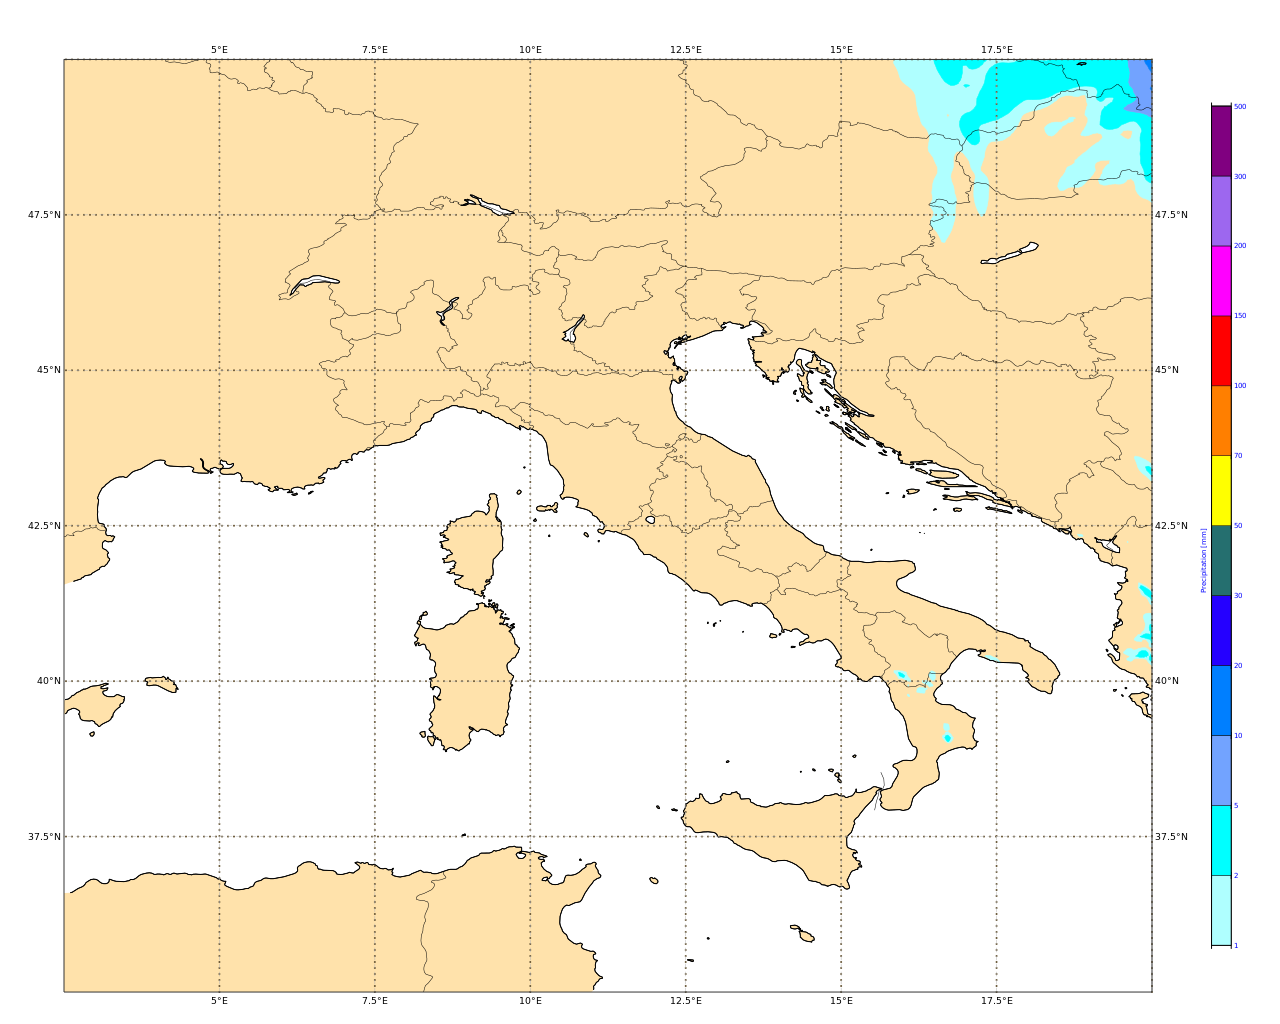
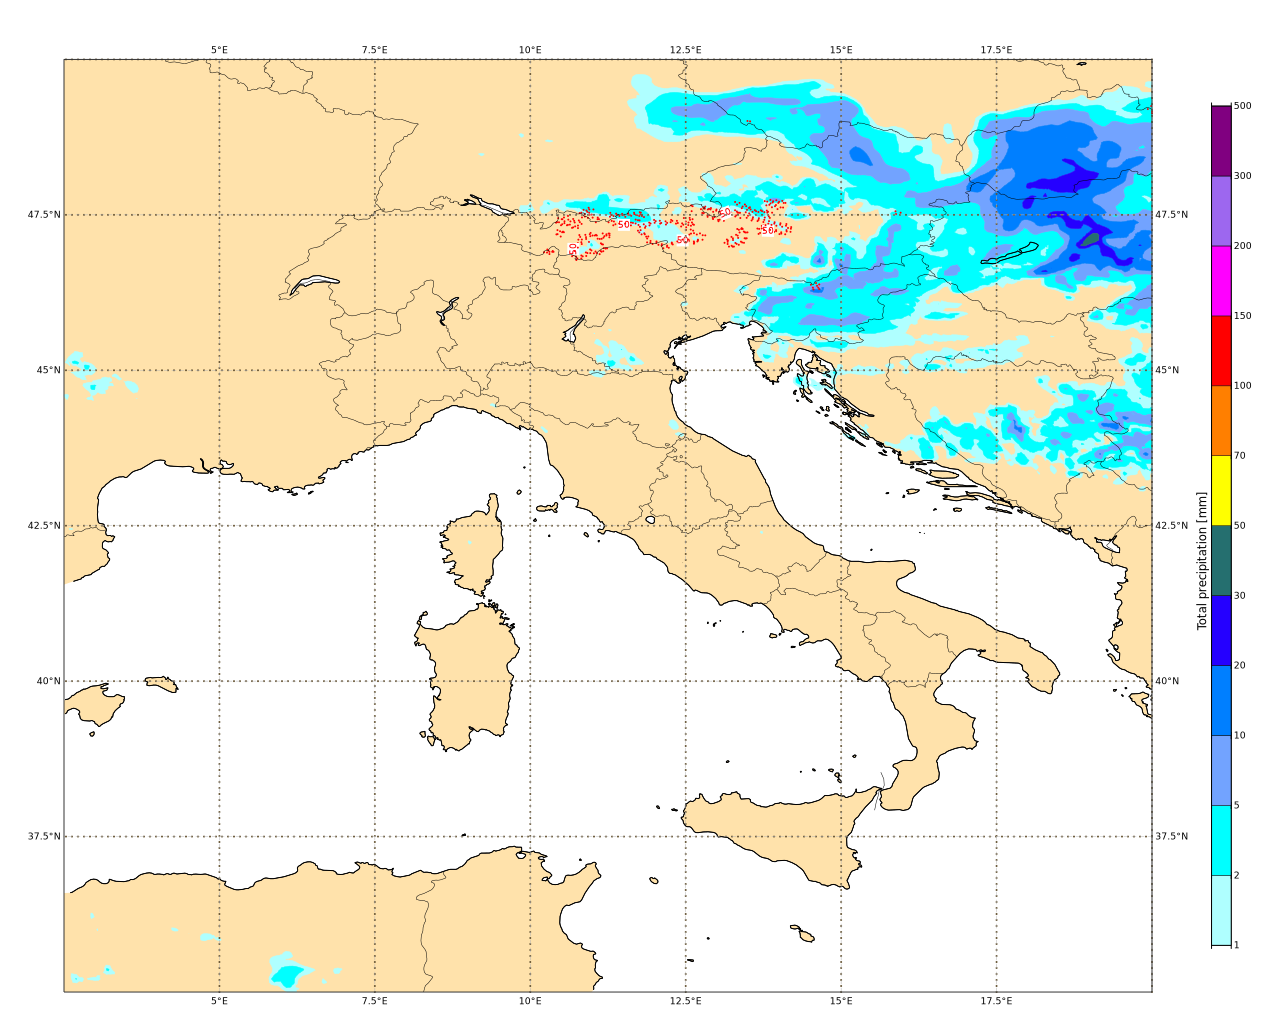
added sample for snow fraction (fix #38), refined products documentation

diff --git a/doc/prodotti/README.md b/doc/prodotti/README.md
@@ -37,20 +37,9 @@ gdal_translate -of Gtiff -a_srs 'EPSG:3857' -a_ullr 389618.2177764575 6446275.84
 | `ztw850`| Geopotenziale, temperatura e vento a 850 hPa | [ztw850.png](ztw850.png)               | [ztw850.md](../recipes/standalone/ztw850.md) |
 | `ztw925`| Geopotenziale, temperatura e vento a 925 hPa | [ztw925.png](ztw925.png)               | [ztw925.md](../recipes/standalone/ztw925.md) |
 | `z500t850`| Geopotenziale a 500 hPa, temperatura a 850 hPa | [z500t850.png](z500t850.png)       | [z500t850.md](../recipes/standalone/z500t850.md) |
-| `tp1h`  | Precipitazione totale cumulata su 1h      |           |  [tp1h.md](../recipes/tp1h.md) |
-| `tp3h`  | Precipitazione totale cumulata su 3h      |           |  [tp3h.md](../recipes/tp3h.md) |
-| `tp6h`  | Precipitazione totale cumulata su 6h      |           |  [tp6h.md](../recipes/tp6h.md) |
-| `tp12h` | Precipitazione totale cumulata su 12h     |           |  [tp12h.md](../recipes/tp12h.md) |
-| `tp24h` | Precipitazione totale cumulata su 24h     | [tp24h.png](tp24h.png "Precipitazione totale su 24h")  |  [tp24h.md](../recipes/tp24h.md) |
-| `cp3h`  | Precipitazione convettiva cumulata su 3h  |           |  [cp3h.md](../recipes/cp3h.md) |
-| `cp6h`  | Precipitazione convettiva cumulata su 6h  |           |  [cp6h.md](../recipes/cp6h.md) |
-| `cp12h` | Precipitazione convettiva cumulata su 12h |           |  [cp12h.md](../recipes/cp12h.md) |
-| `cp24h` | Precipitazione convettiva cumulata su 24h | [cp24h.png](cp24h.png "Precipitazione convettiva su 24h")  |  [cp24h.md](../recipes/cp24h.md) |
-| `sf1h`  | Precipitazione nevosa totale cumulata su 1h      |           |  [sf1h.md](../recipes/sf1h.md) |
-| `sf3h`  | Precipitazione nevosa totale cumulata su 3h      |           |  [sf3h.md](../recipes/sf3h.md) |
-| `sf6h`  | Precipitazione nevosa totale cumulata su 6h      |           |  [sf6h.md](../recipes/sf6h.md) |
-| `sf12h` | Precipitazione nevosa totale cumulata su 12h     |           |  [sf12h.md](../recipes/sf12h.md) |
-| `sf24h` | Precipitazione nevosa totale cumulata su 24h     | [sf24h.png](sf24h.png "Precipitazione nevosa totale su 24h")  |  [sf24h.md](../recipes/sf24h.md) |
+| `tp1h` `tp3h` `tp6h` `tp12h` `tp24h` | Precipitazione totale cumulata su 1/3/6/12/24h con frazione nevosa  | [tp24h.png](tp24h.png) | [tp1h.md](../recipes/standalone/tp1h.md) [tp3h.md](../recipes/standalone/tp3h.md) [tp6h.md](../recipes/standalone/tp6h.md) [tp12h.md](../recipes/standalone/tp12h.md) [tp24h.md](../recipes/standalone/tp24h.md) |
+| `cp3h` `cp6h` `cp12h` `cp24h` | Precipitazione convettiva cumulata su 3/6/12/24h | [cp24h.png](cp24h.png)  |  [cp3h.md](../recipes/cp3h.md) [cp6h.md](../recipes/cp6h.md) [cp12h.md](../recipes/cp12h.md) [cp24h.md](../recipes/cp24h.md) |
+| `sf1h` `sf3h` `sf6h` `sf12h` `sf24h` | Precipitazione nevosa totale cumulata su 1/3/6/12/24h     | [sf24h.png](sf24h.png)  |  [sf1h.md](../recipes/sf1h.md) [sf3h.md](../recipes/sf3h.md) [sf6h.md](../recipes/sf6h.md) [sf12h.md](../recipes/sf12h.md) [sf24h.md](../recipes/sf24h.md) |
 | `litota3` | Densità media fulminazioni nelle ultime 3h | [litota3.png](litota3.png "Densità fulminazioni 3h") | [litota3.md](../recipes/litota3.md) |
 | `viwvn`  | Vertical integral of northward water vapour flux | [viwvn.png](viwvn.png) | [viwvn.md](../recipes/viwvn.md) |
 | `viwvn`  | Vertical integral of eastward water vapour flux  | [viwve.png](viwve.png) | [viwve.md](../recipes/viwve.md) |
@@ -71,50 +60,11 @@ gdal_translate -of Gtiff -a_srs 'EPSG:3857' -a_ullr 389618.2177764575 6446275.84
 
 # Censimento prodotti attualmente pubblicati su infomet
 
-Nota: L'elenco che segue riguarda una lista di prodotti di riferimento, non ancora completamente implementati in arkimaps.
+Nota: L'elenco che segue riguarda una lista di prodotti di riferimento sulla piattaforma "infomet" di ARPAE-SIMC
 
 *modelli censiti: cosmo 5M operativo, cosmo 5I backup, cosmo 5M AM, cleps det, cosmo 2I, cosmo 2I ruc, cosmo1ch, ifs_ita010*
 
-Immagini di riferimento dei prodotti nella cartella "prodotti" che contiene anche questo README (output relativo al primo dei modelli citati)
-
-Nota: la legenda dinamica è una feature richiesta per non mostrare un range troppo esteso (stagionalità della temperatura, etc). Un possibile compromesso potrebbe essere calcolare un range min e max sull'intera corsa.
-
-## Lista prodotti da fare
-
-| cod.int. | Prodotto       | Variabili | Modello |
-| ----- | -------------- | --------- | ------- |
-| rain | Precipitazione totale (passi 1,3,6,12,24h) (#38)  | Preci tot cum(al suolo), Preci nev cum(al suolo) | cosmo 5M, cosmo 5I backup, cosmo 5M am, cleps det (no 1h), cosmo 2I, cosmo 2I RUC (no 24h), cosmo1 CH (solo 3h), ifs (ita) (no 1h), ifs (atl) (no 1, 3h) |
-
-## Opzionali, complessi, a bassa priorità
-
- - I modelli probabilistici necessiterebbero di mappe multi panel
- - I modelli triorari (cosmo 2I RUC, cosmo 1 CH) avrebbero pannelli di confronto di preci trioraria fra corse 
-
-
-I prodotti che seguono hanno preprocessing particolarmente complesso dedicato:
-
-
-| Prodotto       | Variabili | Modello |
-| -------------- | --------- | ------- |
-| Variazione Z500 12 ore | Variazione Geopotenziale 500hPa (dam/12 ore)   | cosmo 5M |
-| Delta T500 12 ore      | Variazione temperatura 500hPa (°K/12 ore)      | cosmo 5M |
-| LLJ+Jet                | Jet Streak 200 hPa, Low level Jet 925hPa       | cosmo 5M |
-| Shear bassa troposfera | Shear del vento nei primi 3000 metri (m/s)     | cosmo 5M |
-| Shear media troposfera | Shear del vento fra 500 e 925 hPa (m/s)        | cosmo 5M |
-| MCS index              | Mesoscale Convective System Index (n)          | cosmo 5M |
-| Velocità verticale 700 hPa | Velocità verticale (omega) a 700hPa (Pa/s) | cosmo 5M |
-| Lifted index           | Lifted index (n)                               | cosmo 5M |
-| Avvezione termica 700 hPa  | Avvezione termica (°K/s) e Geopotenziale a 700hPa | cosmo 5M |
-| Contenuto totale di vapore | Acqua precipitabile (mm), Vento 850hPa, Vento 500hPa | cosmo 5M, ifs (atl) |
-| Vorticità assoluta a 500 hPa | Vorticità assoluta e Geopotenziale a 500 hPa | cosmo 5M |
-| TetaE 925 hPa          | Temperatura equivalente potenziale a 925hPa        | cosmo 5M |
-| Cape+Shear media troposfera | Surface geopotential (S), Convective Available Potential Energy, mean layer | cosmo 5M |
-| Altezza temperatura bulbo bagnato 0 | Wet Bulb Zero Height (m) | cosmo 5M |
-| Downward CAPE               | Downburst Available Potential Energy | cosmo 5M |
-| Wet Microburst Index        | Wet Microburst Severity Index (WMSI)  | cosmo 5M |
-| Dry Microburst Index        | Dry Microburst Index (DMI) | cosmo 5M |
-
-## Prodotti infomet già implementati
+## Prodotti infomet (già implementati)
 
 | cod.int. | Prodotto       | Variabili | Modello |
 | ----- | -------------- | --------- | ------- |
@@ -131,6 +81,7 @@ I prodotti che seguono hanno preprocessing particolarmente complesso dedicato:
 | mslp | MSLP + vento 10m | Pressione(slm), Vento(10m), Isotache(10m) | cosmo 5M, cosmo 5I backup, cosmo 5M am, cleps det, cosmo 2I, cosmo 2I RUC, ifs (ita), ifs (atl) |
 | beau | Isotache scala Beaufort | Isotache(10m) | cosmo 5M, cosmo 5I backup, cosmo 5M am, ifs (ita) |
 | vmax | Vento massimo | vmax(10m), Isotache(10m) | cosmo 5M, cosmo 5I backup, cosmo 2I, , ifs (ita) (triorario) |
+| rain | Precipitazione totale (passi 1,3,6,12,24h)   | Preci tot cum(al suolo), Preci nev cum(al suolo) | cosmo 5M, cosmo 5I backup, cosmo 5M am, cleps det (no 1h), cosmo 2I, cosmo 2I RUC (no 24h), cosmo1 CH (solo 3h), ifs (ita) (no 1h), ifs (atl) (no 1, 3h) |
 | neve | Precipitazione nevosa (passi 1,3,6,12,24h)   | Preci nev cum(al suolo)  | cosmo 5M, cosmo 5I backup, cosmo 5M am (solo 6,12,24h), cleps det (no 1h), cosmo 2I, cosmo 2I RUC (no 12 e 24h), cosmo1 CH (solo 3h), ifs (ita) (no 3h), ifs (atl) (solo 24h) |
 | conv | Precipitazione convettiva (passi 3,6,12,24h) | Preci conv cum(al suolo) | cosmo 5M, cosmo 5I backup, cosmo 5M am (solo 6,12h), cleps det, ifs (ita) (no 3h) |
 | nTot | Nuvolosità totale | Copertura nuovolosa totale | cosmo 5M, cosmo 5I backup, cleps det, cosmo 2I, ifs (ita), ifs (atl) |
